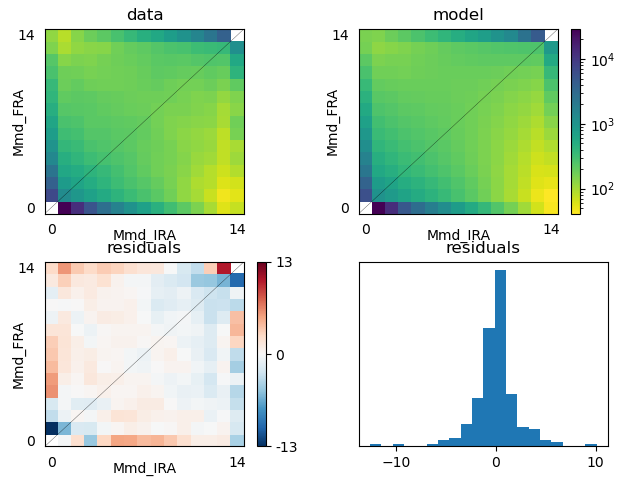
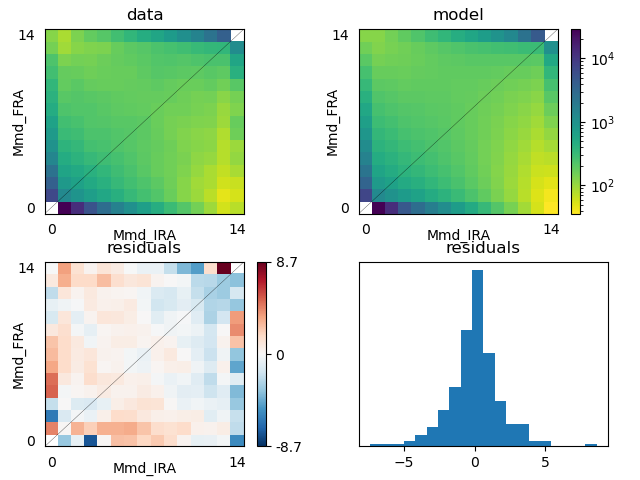
all inbreeding preliminary results

diff --git a/FRA_IRA_demographics/mmd_FRA_mmd_IRA_2d_demographics_split_mig_inbreeding.py b/FRA_IRA_demographics/mmd_FRA_mmd_IRA_2d_demographics_split_mig_inbreeding.py
@@ -1,0 +1,83 @@
+#!/usr/bin/env python
+#SBATCH --account=rgutenk
+#SBATCH --qos=user_qos_rgutenk
+#SBATCH --partition=high_priority
+#SBATCH --job-name="IRA_FRA_split_mig_inbreeding"
+#SBATCH --output=%x-%A_%a.out
+#SBATCH --nodes=1
+#SBATCH --ntasks=50
+#SBATCH --time=24:00:00
+#SBATCH --array=1-5
+from contextlib import AsyncExitStack
+import dadi
+import pickle
+import nlopt
+import matplotlib.pyplot as plt
+import numpy as np
+from dadi import Numerics, PhiManip, Integration
+from dadi.Spectrum_mod import Spectrum
+
+import sys, os
+print('Script running\n')
+if 'SLURM_SUBMIT_DIR' in os.environ:
+    sys.path.insert(0, os.environ['SLURM_SUBMIT_DIR'])
+process_ii = int(os.environ.get('SLURM_ARRAY_TASK_ID', 1)) - 1
+print(process_ii)
+
+def split_mig(params, ns, pts):
+    """
+    params = (nu1,nu2,T,m)
+    ns = (n1,n2)
+
+    Split into two populations of specifed size, with migration.
+
+    nu1: Size of population 1 after split.
+    nu2: Size of population 2 after split.
+    T: Time in the past of split (in units of 2*Na generations) 
+    m: Migration rate between populations (2*Na*m)
+    n1,n2: Sample sizes of resulting Spectrum
+    pts: Number of grid points to use in integration.
+    """
+    nu1,nu2,T,m, F = params
+
+    xx = Numerics.default_grid(pts)
+
+    phi = PhiManip.phi_1D(xx)
+    phi = PhiManip.phi_1D_to_2D(xx, phi)
+
+    phi = Integration.two_pops(phi, xx, T, nu1, nu2, m12=m, m21=m)
+
+    fs = Spectrum.from_phi_inbreeding(phi, ns, (xx,xx), (0.001, F), (2, 2))
+    return fs
+    
+
+def split_mig_demography(fs, ns, pts):
+    demo_model = split_mig
+    demo_model = dadi.Numerics.make_anc_state_misid_func(demo_model)
+    demo_model_ex = dadi.Numerics.make_extrap_func(demo_model)
+    params = [1, 1, 0.1, 0.1, 0.1, 0.1]
+    lower = [1e-2, 1e-2, 1e-3, 1e-3, 0, 0]
+    upper = [3, 6, 1, 3, 1, 1]
+    try:
+        fid = open(f'demo_results/IRA_FRA_split_mig_inbreeding_demo_fits{process_ii}.txt', 'a')
+    except:
+        fid = open(f'demo_results/IRA_FRA_split_mig_inbreeding_demo_fits{process_ii}.txt', 'w')
+    for i in range(2):
+        p0 = dadi.Misc.perturb_params(params, fold = 0, upper_bound = upper, lower_bound = lower)
+        print('Beginning split_mig_inbreeding optimization ' + str(i) + '*'*20)
+        popt, ll_model = dadi.Inference.opt(p0, fs, demo_model_ex, pts, upper_bound = upper, lower_bound = lower)
+        model_fs = demo_model_ex(popt, ns, pts)
+        theta0 = dadi.Inference.optimal_sfs_scaling(model_fs, fs)
+        res = [ll_model] + list(popt) + [theta0]
+        fid.write('\t'.join([str(ele) for ele in res]) + '\n')
+        print('Finished split_mig_inbreeding optimization ' + str(i) + '*'*20)
+    fid.close()
+def main():
+    data_fs = dadi.Spectrum.from_file('IRA_FRA_syn_unfolded.fs')
+    ns = data_fs.sample_sizes
+    pts_l = [max(ns)+20, max(ns)+30, max(ns)+40]
+
+    
+    split_mig_demography(data_fs, ns, pts_l)
+if __name__ == '__main__':
+    main()

diff --git a/FRA_IRA_demographics/mmd_FRA_mmd_IRA_plot_demographics_inbreeding.py b/FRA_IRA_demographics/mmd_FRA_mmd_IRA_plot_demographics_inbreeding.py
@@ -15,7 +15,6 @@ def get_popt(fname):
             popt = f.split('\t')
     for i in range(len(popt)):
         popt[i] = float(popt[i])
-    print(popt)
     return popt
 
 def plot_im_demography(fs, ns, pts, popt):
@@ -139,16 +138,16 @@ def main():
     # bottlegrowth_split_mig_popt = get_popt('')
     # plot_bottlegrowth_split_mig_demography(fs, ns, pts_l, bottlegrowth_split_mig_popt)
 
-    # #split_asym_mig_demography
-    # split_asym_mig_popt = get_popt('')
-    # plot_split_asym_mig_demography(fs, ns, pts_l, split_asym_mig_popt)
+    #split_asym_mig_demography
+    split_asym_mig_popt = get_popt('demo_results/IRA_FRA_split_asym_mig_inbreeding_demo_fits0.txt')
+    plot_split_asym_mig_demography(fs, ns, pts_l, split_asym_mig_popt)
 
-    # #split_delay_mig_demography
-    # split_delay_mig_popt = get_popt('results/')
-    # plot_split_delay_mig_demography(fs, ns, pts_l, split_delay_mig_popt)
+    #split_delay_mig_demography
+    split_delay_mig_popt = get_popt('demo_results/IRA_FRA_split_delay_mig_inbreeding_demo_fits0.txt')
+    plot_split_delay_mig_demography(fs, ns, pts_l, split_delay_mig_popt)
 
-    # #split_mig_demography
-    # split_mig_popt = get_popt('results/')
-    # plot_split_mig_demography(fs, ns, pts_l, split_mig_popt)
+    #split_mig_demography
+    split_mig_popt = get_popt('demo_results/IRA_FRA_split_mig_inbreeding_demo_fits0.txt')
+    plot_split_mig_demography(fs, ns, pts_l, split_mig_popt)
 if __name__ == '__main__':
     main()

diff --git a/FRA_IRA_demographics/inbreeding_models.py b/FRA_IRA_demographics/inbreeding_models.py
@@ -122,3 +122,28 @@ def split_delay_mig(params, ns, pts):
 
     fs = Spectrum.from_phi_inbreeding(phi, ns, (xx,xx), (0.001, F), (2, 2))
     return fs
+def split_mig(params, ns, pts):
+    """
+    params = (nu1,nu2,T,m)
+    ns = (n1,n2)
+
+    Split into two populations of specifed size, with migration.
+
+    nu1: Size of population 1 after split.
+    nu2: Size of population 2 after split.
+    T: Time in the past of split (in units of 2*Na generations) 
+    m: Migration rate between populations (2*Na*m)
+    n1,n2: Sample sizes of resulting Spectrum
+    pts: Number of grid points to use in integration.
+    """
+    nu1,nu2,T,m, F = params
+
+    xx = Numerics.default_grid(pts)
+
+    phi = PhiManip.phi_1D(xx)
+    phi = PhiManip.phi_1D_to_2D(xx, phi)
+
+    phi = Integration.two_pops(phi, xx, T, nu1, nu2, m12=m, m21=m)
+
+    fs = Spectrum.from_phi_inbreeding(phi, ns, (xx,xx), (0.001, F), (2, 2))
+    return fs
